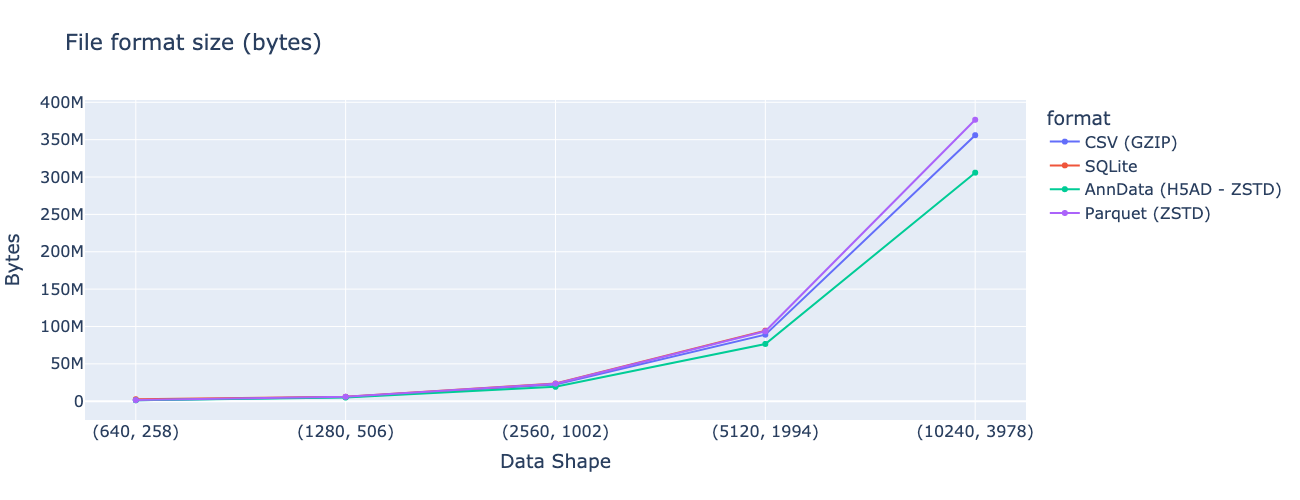
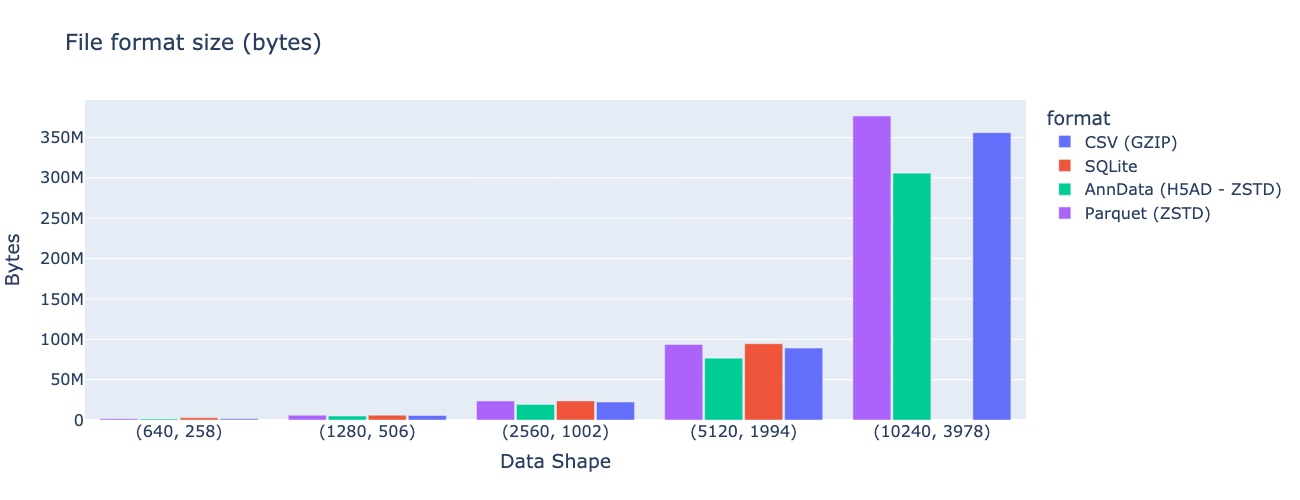
move to bar plot

diff --git a/notebooks/parquet_analysis.py b/notebooks/parquet_analysis.py
@@ -1028,21 +1028,19 @@ format_order = [
     "Parquet (ZSTD)",
 ]
 
-fig = px.line(
+fig = px.bar(
     stats_sorted,
     x=key,
     y="bytes",
     color="format",
-    markers=True,
+    barmode="group",  # side-by-side bars per data shape
     category_orders={key: x_order, "format": format_order},
     labels={key: "Data Shape", "bytes": "Bytes"},
     width=1300,
     title="File format size (bytes)",
 )
 
-fig.update_traces(mode="lines+markers")
-fig.update_xaxes(autorange="reversed")
-# No need to force colors; Plotly will handle 4 traces nicely
+# Optional polish
 fig.update_layout(
     legend=dict(
         x=1.02, y=1, xanchor="left", yanchor="top",
@@ -1050,7 +1048,12 @@ fig.update_layout(
     ),
     margin=dict(r=220),
     font=dict(size=16),
+    bargap=0.15,       # space between groups
+    bargroupgap=0.05,  # space within a group
 )
+
+# Keep the same left-to-right ordering convention as before
+fig.update_xaxes(autorange="reversed")
 
 pio.write_image(fig, (img_file := file_storage_size_image.replace(".png","-reduced.png")))
 Image(url=img_file)
